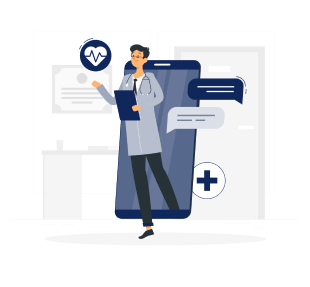
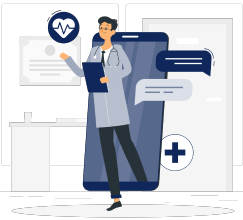
자잘한 수정

diff --git a/Consult/Consult.css b/Consult/Consult.css
@@ -25,13 +25,14 @@ a {
 .navbar_logo img {
     width: 130px;
     height: 25px;
-    margin-left: 20px;
+    margin-left: 15px;
 }
 .navbar_menu {
     display: flex;
     list-style: none;
     padding-left: 0;
     margin-bottom: 0;
+    margin-right: 90px;
 }
 .navbar_menu li {
     padding: 8px 12px;
@@ -79,7 +80,7 @@ a {
 
 /* Header section */
 .header_section {
-    background-color: #f5f7fa;
+    background-color: #e2edff   ;
     margin-top: 56px;
 }
 .header p {
@@ -90,9 +91,27 @@ a {
 .header_line {
     border-top: 1px black solid;
 }
+.subheader {
+    font-size: 28px;
+    margin-top: 70px;
+}
+.subheader .blue {
+    z-index: 100;
+    color: #006ae2;
+}
+.subheader_line {
+    display: flex;
+    justify-content: center;
+}
+.subheader_line .line {
+    width: 210px;
+    height: 15px;
+    background-color: #f1e6a7;
+    margin-right: 166px;
+    margin-top: -32px;
+    z-index: 10;
+}
 input::placeholder {
-    font-size: 12px;
-    padding-left: 10px;
     color: #9d9d9d;
 }
 .search_section {
@@ -100,26 +119,32 @@ input::placeholder {
     position: relative;
     align-items: center;
     justify-content: center;
+    margin-top: -30px;
 }
 .search_bar {
     display: flex;
     position: absolute;
-    margin-right: 155px;
+    margin-right: 75px;
 }
 .search_bar input {
     width:250px;
     height: 45px;
     border-radius: 5px;
-    background-color: #f2f2f2;
+    background-color: #fcfcfc;
     border: 2px solid #9d9d9d;
+    padding-left: 10px;
+    font-size: 12px;
 }
 .searchBtn {
     display: flex;
     position: absolute;
-    margin-left: 140px;
+    margin-left: 220px;
+}
+.searchBtn button:hover {
+    border: 2px solid black;
 }
 .searchBtn button {
-    background-color: #f2f2f2;
+    background-color: #fcfcfc;
     border: 2px solid #9d9d9d;
     width: 45px;
     height: 45px;
@@ -128,14 +153,17 @@ input::placeholder {
 }
 .searchBtn i {
     color: #9d9d9d;
-    padding: px;
 }
-.consult_img {
-    margin-left: 850px;
-    width: 250px;
+.header_img {
     height: 250px;
-    margin-top: -30px;
+    margin-top: -40px;
+    margin-left: 980px;
 }
+.header_img img {
+    width: 180px;
+    height: 180px;
+}
+
 /* category section */
 .category{
     display:flex;
@@ -150,6 +178,9 @@ input::placeholder {
     padding: 0 8px;
     border-radius: 5px;
 }
+#ed_target:hover {
+    border: 2px solid black;
+}
 .category .optional #ed_field{
     width:120px;
     height:47px;
@@ -159,6 +190,9 @@ input::placeholder {
     margin:23px 11px 0 0;
     padding: 0 8px;
     border-radius: 5px;
+}
+#ed_field:hover {
+    border: 2px solid black;
 }
 .writeBtn {
     display: flex;

diff --git a/Consult/Consult.html b/Consult/Consult.html
@@ -31,6 +31,10 @@
                 <p>맞춤상담</p>
                 <div class="header_line"></div>
             </div>
+            <div class="subheader d-flex justify-content-center">
+                <p class="blue">내 상황에 맞는 상담</p><p>이 궁금하다면?</p>
+            </div>
+            <div class="subheader_line"><div class="line"></div></div>
             <div class="search_section">
                 <div class="search_bar">
                     <input type="text" placeholder="키워드를 입력해주세요.">
@@ -38,7 +42,7 @@
                 <div class="searchBtn">
                     <button><i class="fa-solid fa-magnifying-glass"></i></button>
                 </div>
-                <div class="consult_img">
+                <div class="header_img">
                     <img src="../img/professor.png" alt="">
                 </div>
             </div>

diff --git a/Education/Education.css b/Education/Education.css
@@ -155,36 +155,11 @@ input::placeholder {
     color: #9d9d9d;
     padding: px;
 }
-.consult_img {
+.header_img {
     margin-left: 980px;
     width: 220px;
     height: 220px;
     margin-top: -50px;
-}
-
-/* category section */
-.category{
-    display:flex;
-}
-.category .optional #ed_target{
-    width:120px;
-    height:47px;
-    font-size:16px;
-    stroke:2px solid #033075;
-    color:#9D9D9D;
-    margin:23px 11px 0px 10px;
-    padding: 0 8px;
-    border-radius: 5px;
-}
-.category .optional #ed_field{
-    width:120px;
-    height:47px;
-    font-size:16px;
-    stroke:2px solid #033075;
-    color:#9D9D9D;
-    margin:23px 11px 0 0;
-    padding: 0 8px;
-    border-radius: 5px;
 }
 
 /*카테고리*/

diff --git a/Category/Category.css b/Category/Category.css
@@ -25,13 +25,14 @@ a {
 .navbar_logo img {
     width: 130px;
     height: 25px;
-    margin-left: 20px;
+    margin-left: 15px;
 }
 .navbar_menu {
     display: flex;
     list-style: none;
     padding-left: 0;
     margin-bottom: 0;
+    margin-right: 90px;
 }
 .navbar_menu li {
     padding: 8px 12px;
@@ -82,7 +83,7 @@ a {
     display:flex;
     justify-content: space-between;
     padding-top: 56px;
-    background-color:#F5F7FA;
+    background-color:#e2edff;
 }
 .category_header {
     margin-left: 80px;

diff --git a/Education/Education.html b/Education/Education.html
@@ -44,7 +44,7 @@
                 <div class="searchBtn">
                     <button><i class="fa-solid fa-magnifying-glass"></i></button>
                 </div>
-                <div class="consult_img">
+                <div class="header_img">
                     <img src="../img/ed_education.png" alt="">
                 </div>
             </div>
